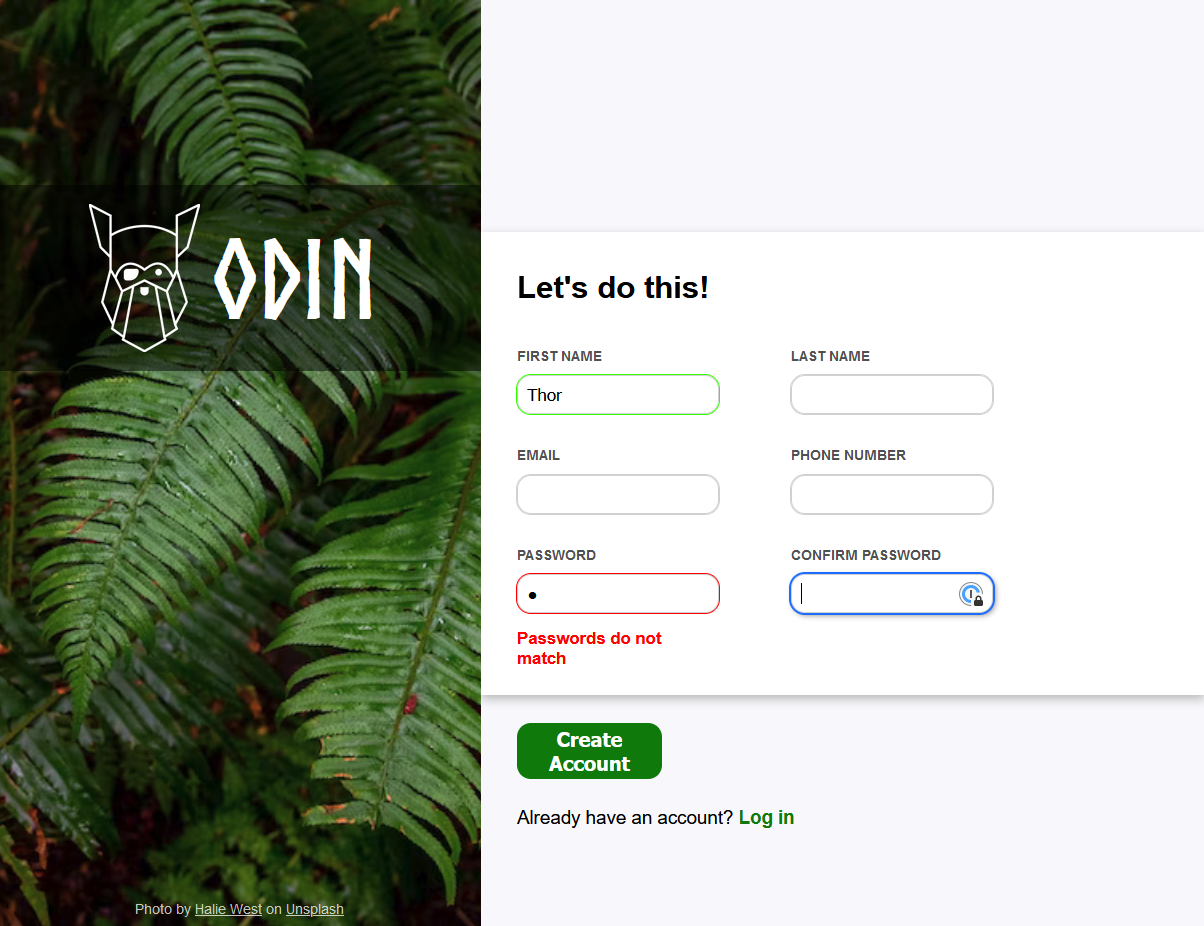
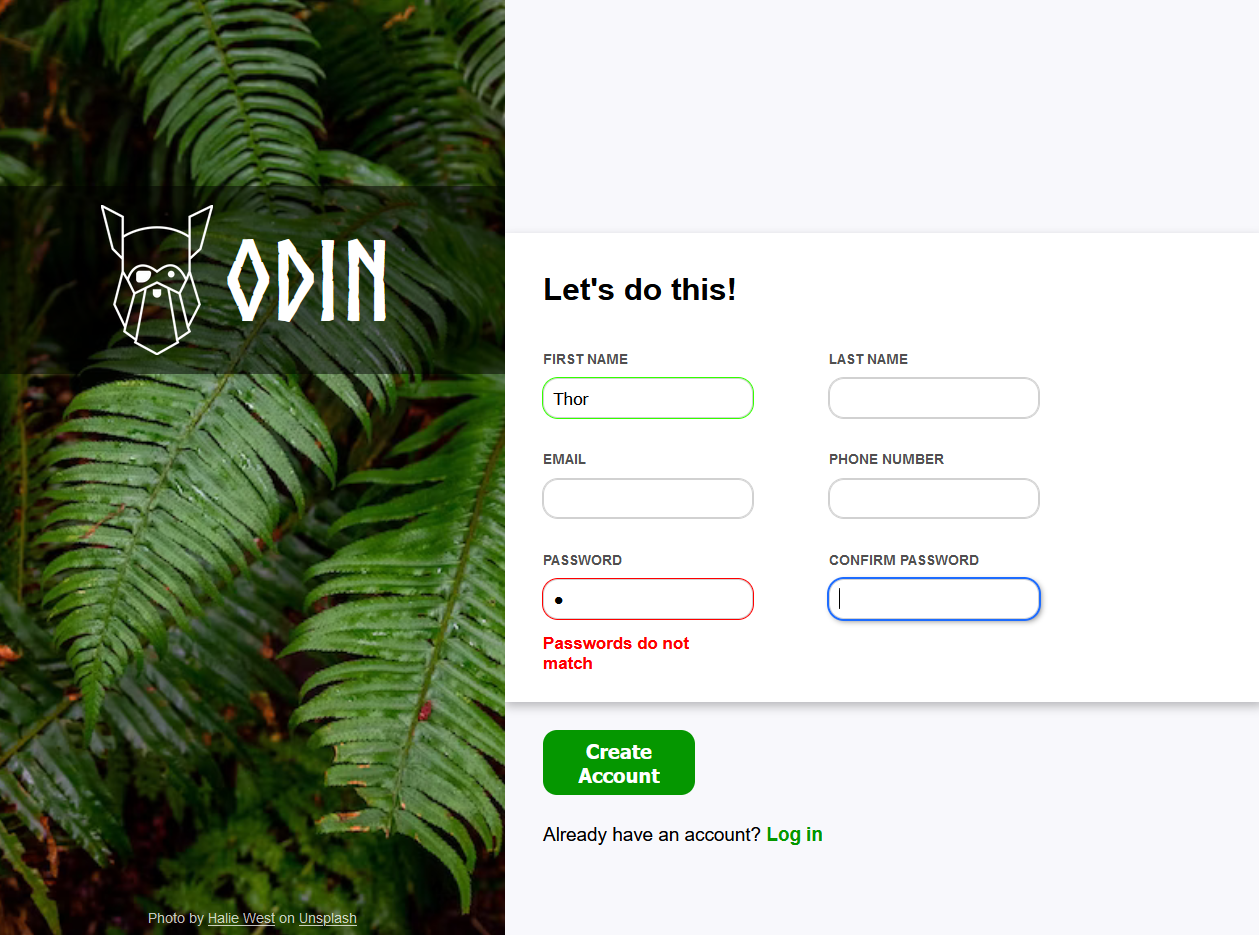
fix button

diff --git a/styles.css b/styles.css
@@ -137,9 +137,10 @@ label {
 button {
   font-weight: 600;
   width: 12vw;
-  height: 6vh;
+  height: 7vh;
   margin: 3vh 3vw;
-  background-color: rgb(15,121,12);
+  padding: 0 1.2vw;
+  background-color: rgb(5, 151, 0);
   color: white;
   border: 0px solid #d1d1d1;
   border-radius: 1.5vh;
@@ -173,7 +174,7 @@ main>div>p {
 main div a {
 text-decoration: none;
 font-weight: 600;
-color: rgb(15, 121, 12)
+color:  rgb(5, 151, 0);
 }
 
 input:not(:focus):invalid {
